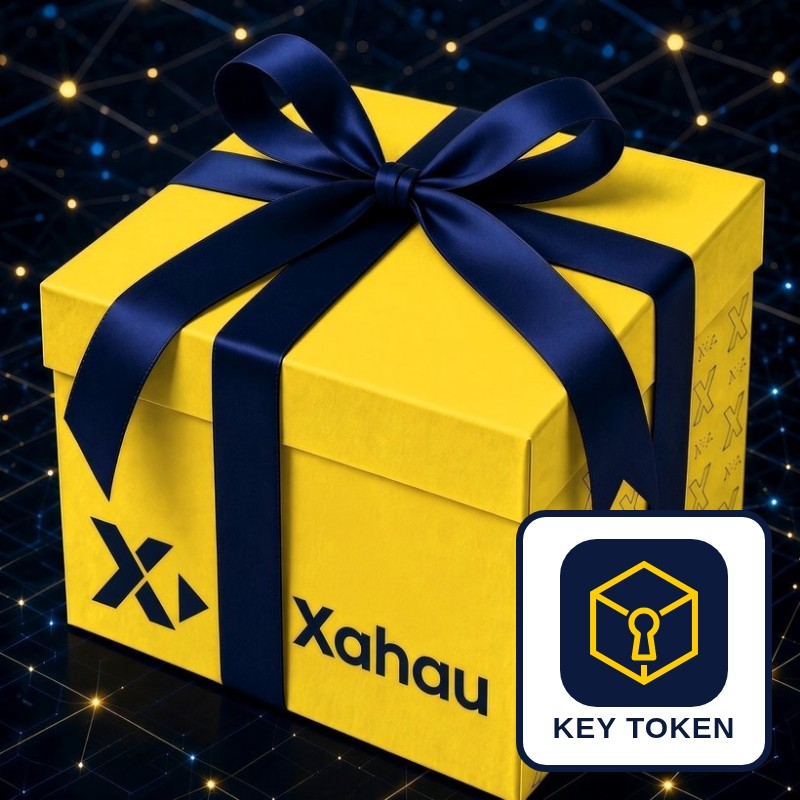
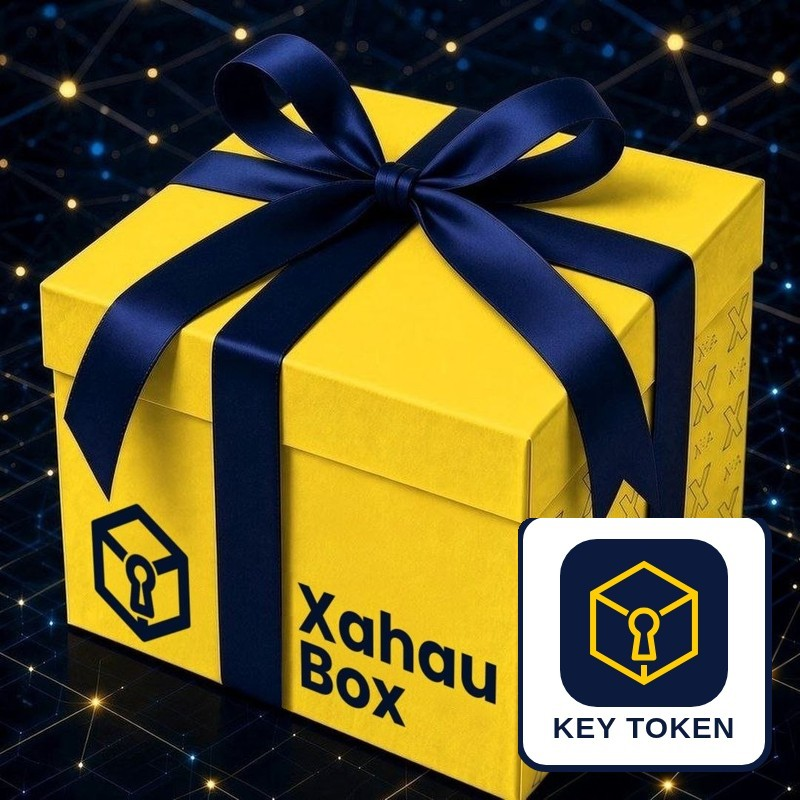
New Xahau Box box images (v20261103l)

diff --git a/js/app.js b/js/app.js
@@ -245,7 +245,7 @@ function tokenView(tok) {
     const id = String(tok.index || '').toUpperCase(); const rm = remarkMap(tok); const rmeta = remarkMeta(rm); const meta = rmeta && rmeta.meta;
     const v = { name: null, img: null, attrs: [], desc: null, remarks: [] };
     const k = keyTokenId(tok);
-    if (k) { v.name = t('tokenKind') + ' · ' + k.slice(0, 6); v.img = 'img/key.jpg?v=3'; return v; }
+    if (k) { v.name = t('tokenKind') + ' · ' + k.slice(0, 6); v.img = 'img/key.jpg?v=4'; return v; }
     if (meta) { v.name = clean(meta.name); v.desc = clean(meta.desc || meta.description, 160); v.descFull = clean(meta.desc || meta.description, 2000); v.attrs = attrList(meta.attributes); v.full = attrFull(meta.attributes); }
     else v.remarks = [...rm].filter(([, r]) => clean(r.text, 80)).slice(0, 4).map(([n, r]) => (clean(n, 30) + ': ' + clean(r.text, 80)));
     if (tok.Issuer === ISS.CARDS && meta && typeof meta.image === 'string' && CARD_IMG.test(meta.image)) v.img = meta.image;
@@ -814,7 +814,7 @@ function heldRender() {
   const on = !!acct && kind() === 'token'; w.classList.toggle('hide', !on); if (!on) { sel.held = null; return; }
   const ks = heldKeys(); if (sel.held && !ks.some(x => x.index === sel.held)) sel.held = null;
   w.append(h('div', { class: 'lbl' }, t('hkPick')), h('p', { class: 'sm' }, t('hkExplain')));
-  const opt = (val, body, img) => { const r = h('input', { type: 'radio', name: 'keyPick', value: val }); r.checked = (sel.held || 'new') === val; r.onchange = () => { sel.held = val === 'new' ? null : val; updateSummary(); }; return h('label', { class: 'opt opt2 hk' }, r, img ? h('img', { class: 'hkimg', src: 'img/key.jpg', alt: '' }) : null, body); };
+  const opt = (val, body, img) => { const r = h('input', { type: 'radio', name: 'keyPick', value: val }); r.checked = (sel.held || 'new') === val; r.onchange = () => { sel.held = val === 'new' ? null : val; updateSummary(); }; return h('label', { class: 'opt opt2 hk' }, r, img ? h('img', { class: 'hkimg', src: 'img/key.jpg?v=4', alt: '' }) : null, body); };
   w.append(opt('new', h('span', {}, h('b', {}, '+ ' + t('hkNew')), h('span', {}, t('hkNewSub')))));
   for (const k of ks) {
     const bx = boxesUnder(k.index), list = h('span', {});
@@ -1313,7 +1313,7 @@ async function finishPack(only) {
 function loadImg(src) { return new Promise((res, rej) => { const i = new Image(); i.onload = () => res(i); i.onerror = rej; i.src = src; }); }
 async function drawBox(link) {
   const cv = $('boxCanvas'), ctx = cv.getContext('2d');
-  const bg = await loadImg('img/box.jpg?v=2'); cv.width = bg.width; cv.height = bg.height; ctx.drawImage(bg, 0, 0);
+  const bg = await loadImg('img/box.jpg?v=3'); cv.width = bg.width; cv.height = bg.height; ctx.drawImage(bg, 0, 0);
   const qr = await loadImg(await L.qrDataURL(link, { margin: 1, width: 600, errorCorrectionLevel: 'H' }));
   const ico = await loadImg('img/icon-512.png?v=3').catch(() => null);
   // White rounded card, bottom-right (keeps the X mark visible), "OPEN BOX" under the QR.
@@ -1368,7 +1368,7 @@ async function showBox() {
   openBox = b ? Object.assign(b, { ktid, holder, tok, cur }) : null;
   v.textContent = '';
   const card = h('div', { class: 'card' });
-  const rest = h('div', { class: 'giftrest' }, h('div', { class: 'hero sm' }, h('img', { src: 'img/hero2.jpg', alt: '' })), card);
+  const rest = h('div', { class: 'giftrest' }, h('div', { class: 'hero sm' }, h('img', { src: 'img/hero2.jpg?v=3', alt: '' })), card);
   v.append(rest);
   if (b && b.status === 0) {
     const a0 = BigInt('0x' + b.amt), gp = []; if (a0) gp.push(dropsToXah(a0) + ' XAH'); if (tok) gp.push(gcTok(tok) ? t('gcTag') : '1 URIToken');
@@ -1504,7 +1504,7 @@ async function keysRender(list, d) {
     const id = String(k.index).toUpperCase(), sale = k.Amount !== undefined;
     const bx = mine ? d.built.filter(b => b.ktid && String(b.ktid).toUpperCase() === id) : recv.filter(b => !b.gone && String(b.ktid).toUpperCase() === id);
     const c = h('div', { class: 'card kycard' });
-    c.append(h('div', { class: 'kyhead' }, h('img', { class: 'hkimg', src: 'img/key.jpg', alt: '' }),
+    c.append(h('div', { class: 'kyhead' }, h('img', { class: 'hkimg', src: 'img/key.jpg?v=4', alt: '' }),
       h('span', {}, h('b', {}, '🔑 ' + t('tokenKind') + ' ' + short(id)), h('span', { class: 'bbadge key' }, mine ? t('kyMine') : t('kyFrom') + ' ' + short(k.Issuer)), sale ? h('span', { class: 'bbadge burnt' }, t('kySale')) : null)));
     if (!bx.length) c.append(h('p', { class: 'sm' }, t('kyNoBoxes')));
     for (const b of bx.sort((a, x) => a.nonce - x.nonce)) c.append(h('div', { class: 'hkbox' }, '#' + b.nonce + ' · ' + boxSum(b) + (b.status === 0 ? '' : ' · ' + t('stClaiming'))));

diff --git a/index.html b/index.html
@@ -9,16 +9,16 @@
 <meta http-equiv="Pragma" content="no-cache">
 <meta http-equiv="Expires" content="0">
 <meta name="theme-color" content="#020a1c">
-<script src="js/theme.js?v=20261103k"></script>
+<script src="js/theme.js?v=20261103l"></script>
 <title>Xahau Box</title>
 <meta name="application-name" content="Xahau Box">
 <meta name="apple-mobile-web-app-title" content="Xahau Box">
 <link rel="icon" href="img/icon-192.png?v=3">
-<link rel="manifest" href="manifest.webmanifest?v=20261103k">
+<link rel="manifest" href="manifest.webmanifest?v=20261103l">
 <link rel="apple-touch-icon" href="img/apple-touch-icon.png?v=3">
 <meta name="mobile-web-app-capable" content="yes">
 <meta name="apple-mobile-web-app-capable" content="yes">
-<link rel="stylesheet" href="css/app.css?v=20261103k">
+<link rel="stylesheet" href="css/app.css?v=20261103l">
 </head>
 <body>
 <div class="app">
@@ -32,7 +32,7 @@
 
 <!-- HOME -->
 <section class="screen" id="s-home">
-  <div class="hero"><img src="img/hero2.jpg" alt=""></div>
+  <div class="hero"><img src="img/hero2.jpg?v=3" alt=""></div>
   <h1 class="center"><span data-t="homeTitle1"></span><br><span class="yel" data-t="homeTitle2"></span></h1>
   <p class="sub center" data-t="homeSub"></p>
   <div class="foot">
@@ -204,7 +204,7 @@
   </div>
   <div class="card keypart hide" id="keyPart">
     <h3 class="wtitle" data-t="kdKeyT"></h3>
-    <img class="keyimg" src="img/key.jpg" alt="">
+    <img class="keyimg" src="img/key.jpg?v=4" alt="">
     <div id="keyInfo"></div>
     <p class="sm yel" data-t="kdKeyNote"></p>
   </div>
@@ -251,7 +251,7 @@
 </section>
 
 <section class="screen" id="s-sent">
-  <div class="hero"><img src="img/key.jpg" alt=""></div>
+  <div class="hero"><img src="img/key.jpg?v=4" alt=""></div>
   <h1 class="center"><span data-t="sentT"></span> <span class="okchk" aria-hidden="true">✓</span></h1>
   <div class="card" id="sentInfo"></div>
   <div class="card stepok"><p data-t="sentNext"></p></div>
@@ -446,11 +446,11 @@
 </nav>
 <footer class="foot-note"><div class="ledgerline" aria-live="off"><span class="ldot" id="ledgerDot"></span><span data-t="ledgerShort"></span> <b class="lcur mono">…</b> <span class="lavg" id="ledgerAvg"></span></div><span data-t="footer"></span></footer>
 </div>
-<script src="js/config.js?v=20261103k"></script>
-<script src="vendor/boxlib.js?v=20261103k"></script>
-<script src="vendor/xumm-oauth2-pkce-2.8.7.min.js?v=20261103k"></script>
-<script src="js/icons.js?v=20261103k"></script>
-<script src="js/i18n.js?v=20261103k"></script>
-<script src="js/app.js?v=20261103k"></script>
+<script src="js/config.js?v=20261103l"></script>
+<script src="vendor/boxlib.js?v=20261103l"></script>
+<script src="vendor/xumm-oauth2-pkce-2.8.7.min.js?v=20261103l"></script>
+<script src="js/icons.js?v=20261103l"></script>
+<script src="js/i18n.js?v=20261103l"></script>
+<script src="js/app.js?v=20261103l"></script>
 </body>
 </html>

diff --git a/sw.js b/sw.js
@@ -8,7 +8,7 @@ const CACHE = 'xbox-' + V;
 const Q = '?v=' + V;
 const ASSETS = ['./', 'css/app.css' + Q, 'js/theme.js' + Q, 'js/config.js' + Q, 'vendor/boxlib.js' + Q, 'vendor/xumm-oauth2-pkce-2.8.7.min.js' + Q,
   'js/icons.js' + Q, 'js/i18n.js' + Q, 'js/app.js' + Q, 'manifest.webmanifest' + Q, 'img/icon-192.png?v=3', 'img/icon-512.png?v=3', 'img/icon-maskable-192.png?v=3', 'img/icon-maskable-512.png?v=3',
-  'img/hero2.jpg', 'img/don-xah.png', 'img/don-xrp.png', 'img/net.svg?v=2', 'img/net-light.svg?v=2', 'img/evergram-logo.png'];
+  'img/hero2.jpg?v=3', 'img/don-xah.png', 'img/don-xrp.png', 'img/net.svg?v=2', 'img/net-light.svg?v=2', 'img/evergram-logo.png'];
 self.addEventListener('install', e => {
   e.waitUntil(caches.open(CACHE).then(c => c.addAll(ASSETS.map(u => new Request(u, { cache: 'reload' })))).then(() => self.skipWaiting()));
 });
